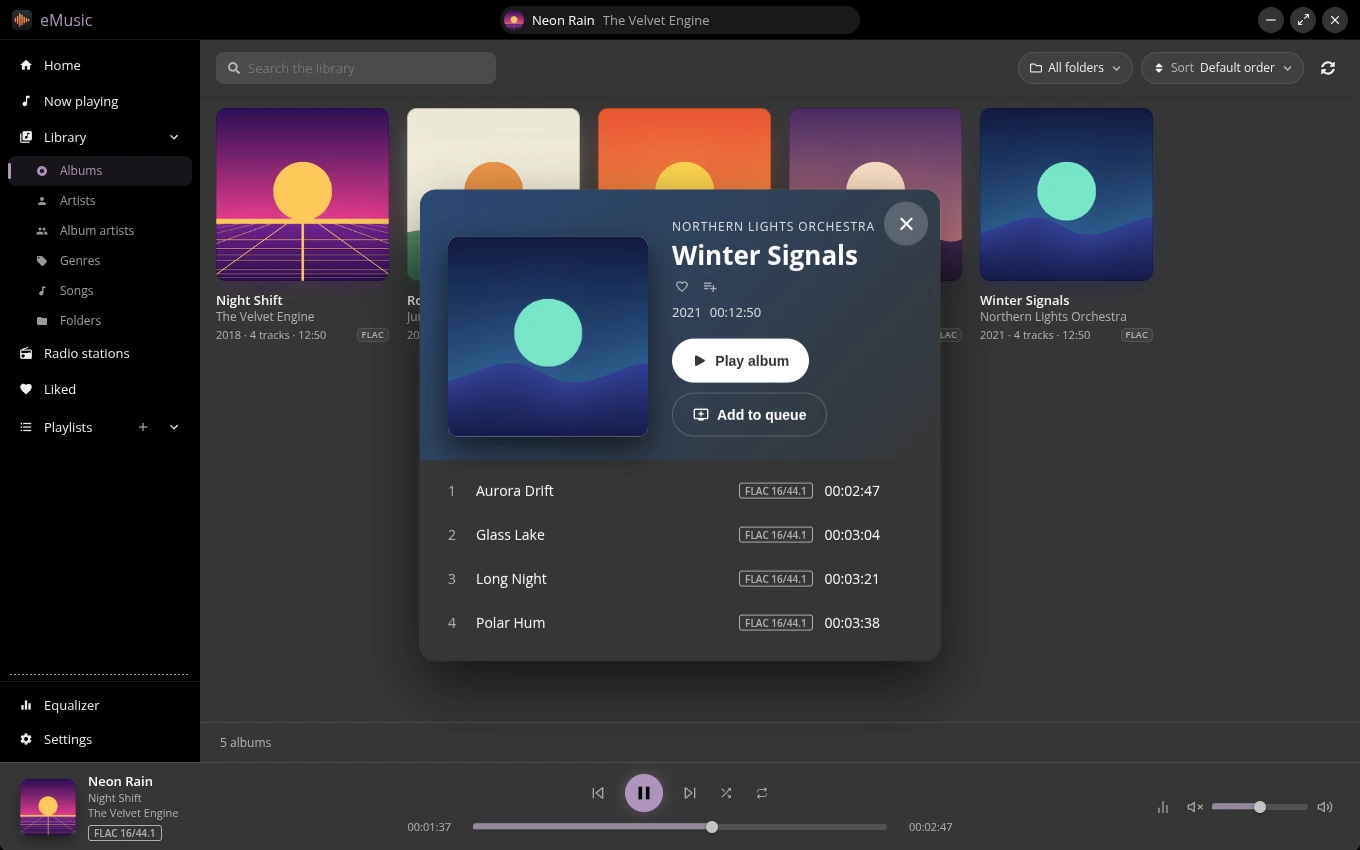
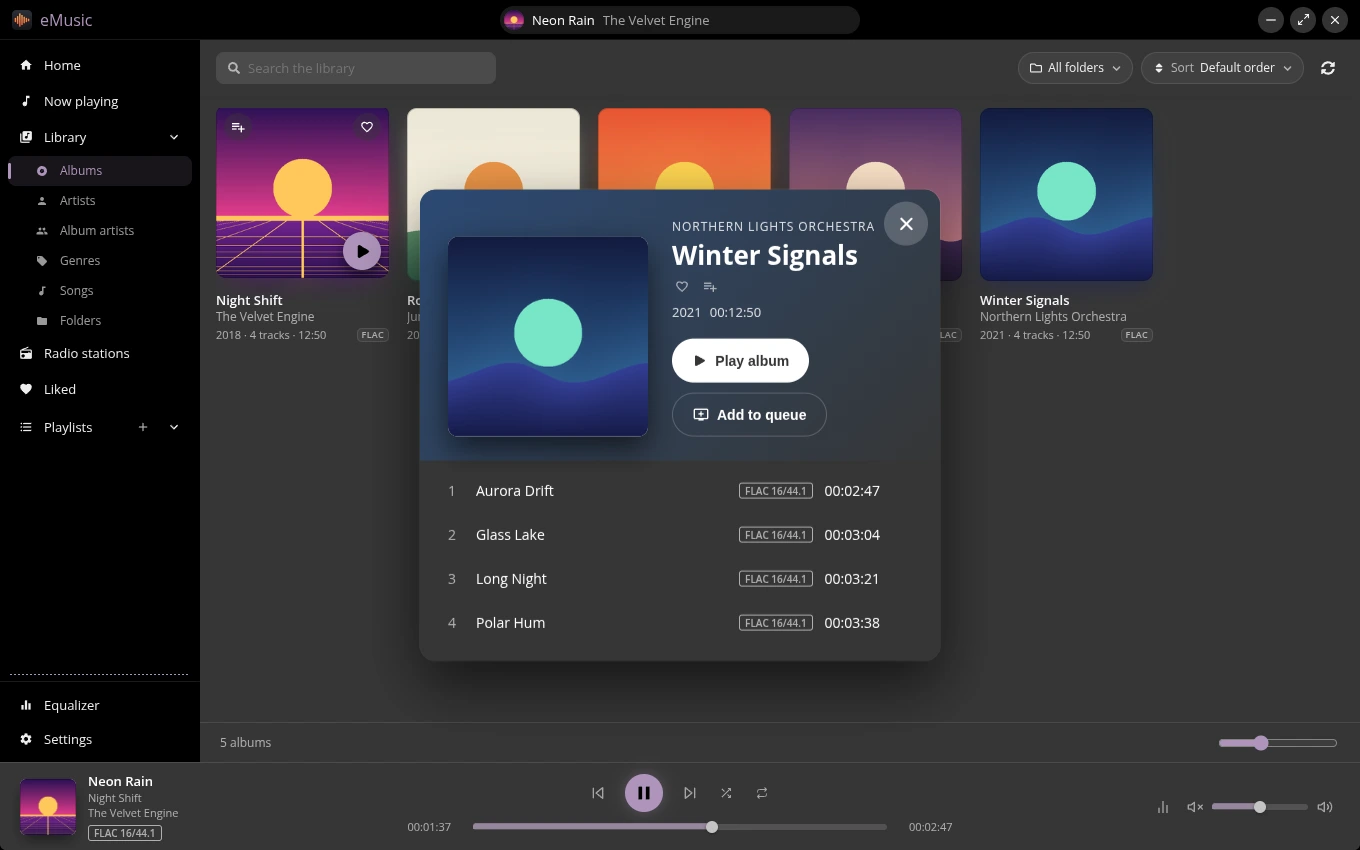
Add a slider for the size of the covers to the bar below the albums

diff --git a/components/album-view/AlbumView.tsx b/components/album-view/AlbumView.tsx
@@ -7,6 +7,7 @@ import { useTranslation } from '../../client/i18n';
 import { useScrollSeparator } from '../../client/hooks/use-scroll-separator';
 import { usePageLoader } from '../../client/hooks/use-page-loader';
 import { useWindowedList } from '../../client/hooks/use-windowed-list';
+import { coverSizes } from '../../client/cover-size';
 import { fetchAlbum } from '../../client/library-api';
 import { getCachedItem } from '../../client/redux/library/pages';
 import type { PageCache } from '../../client/redux/library/pages';
@@ -14,8 +15,7 @@ import style from './AlbumView.scss';
 import AlbumViewThumbnail from '../album-view-thumbnail';
 import { selectedFolders } from '../../client/library-query';
 
-/** The least width of a cover and the gap between two in px, the covers grow to fill the width; matching .row in AlbumView.scss */
-const minCoverWidth = 160;
+/** The gap between two covers in px, the covers grow to fill the width; matching .row in AlbumView.scss */
 const columnGap = 18;
 /** The space under a thumbnail and the height of its lines of text in px, matching .albumViewThumbnail in AlbumViewThumbnail.scss */
 const rowGap = 22;
@@ -34,17 +34,20 @@ interface AlbumViewProps {
   playTracks: (tracks: Track[]) => void;
   selectAlbum: (album: Album | null) => void;
   loadPage: (page: number) => void;
+  /** The least width of a cover in px, which the slider of the bar below the list sets */
+  coverSize: number;
+  setCoverSize: (size: number) => void;
   /** What the bar above the list holds, no bar when omitted (the sort of the albums is in the header of the library) */
   toolbar?: ReactNode;
 }
 
-const AlbumView = ({ playTracks, selectAlbum, albums, sort, selected, folders, search, loadPage, toolbar }: AlbumViewProps) => {
+const AlbumView = ({ playTracks, selectAlbum, albums, sort, selected, folders, search, coverSize, setCoverSize, loadPage, toolbar }: AlbumViewProps) => {
   const { t } = useTranslation();
   const { separator, listing: scrolled } = useScrollSeparator(style.scrolled);
   const { listing, columns, rowHeight, firstIndex, lastIndex, offsetTop, height } = useWindowedList({
     itemCount: albums.total ?? 0,
     rowHeight: rowHeightOf,
-    itemWidth: minCoverWidth,
+    itemWidth: coverSize,
     gap: columnGap,
   });
   usePageLoader(albums, firstIndex, lastIndex, loadPage);
@@ -98,7 +101,20 @@ const AlbumView = ({ playTracks, selectAlbum, albums, sort, selected, folders, s
           ))}
         </div>
       </div>
-      <div className={style.footer}>{t('albums.count', { count: albums.total ?? 0 })}</div>
+      <div className={style.footer}>
+        <span>{t('albums.count', { count: albums.total ?? 0 })}</span>
+        <input
+          type="range"
+          className={style.coverSize}
+          aria-label={t('albums.coverSize')}
+          title={t('albums.coverSize')}
+          min={coverSizes.min}
+          max={coverSizes.max}
+          step={coverSizes.step}
+          value={coverSize}
+          onChange={(event) => setCoverSize(Number(event.target.value))}
+        />
+      </div>
     </div>
   );
 };

diff --git a/client/redux/uiState/reducer.ts b/client/redux/uiState/reducer.ts
@@ -1,4 +1,5 @@
 import type { Reducer } from 'redux';
+import { coverSizes, restoreCoverSize } from '../../cover-size';
 import { knownFolders, parseFolders, restoreAlbumSort, restoreGroupSort, restoreTrackSort } from '../../../types/library-query';
 import { parseRadioQuery } from '../../../types/radio-query';
 import { isAppAction } from '../types';
@@ -37,6 +38,7 @@ const initialState: UiState = {
   theme: { ...defaultTheme, accent: autoAccent },
   trackSort: undefined,
   albumSort: undefined,
+  coverSize: coverSizes.default,
   groupSort: undefined,
   artistPhotos: true,
   openGroup: undefined,
@@ -64,6 +66,8 @@ const reducer: Reducer<UiState> = (state = initialState, action) => {
       return { ...state, trackSort: action.payload.sort };
     case 'SET_ALBUM_SORT':
       return { ...state, albumSort: action.payload.sort };
+    case 'SET_COVER_SIZE':
+      return { ...state, coverSize: restoreCoverSize(action.payload.size) };
     case 'SET_LIBRARY_SEARCH':
       return { ...state, librarySearch: action.payload.search };
     case 'SET_ARTIST_PHOTOS':
@@ -196,6 +200,7 @@ const reducer: Reducer<UiState> = (state = initialState, action) => {
         // a saved value that is not valid gives the default order and all folders
         ...('trackSort' in settings && { trackSort: restoreTrackSort(settings.trackSort) }),
         ...('albumSort' in settings && { albumSort: restoreAlbumSort(settings.albumSort) }),
+        ...('coverSize' in settings && { coverSize: restoreCoverSize(settings.coverSize) }),
         // only a saved off turns the photos off
         ...('artistPhotos' in settings && { artistPhotos: settings.artistPhotos !== false }),
         ...('groupSort' in settings && { groupSort: restoreGroupSort(settings.groupSort) }),

diff --git a/components/album-view/AlbumView.test.tsx b/components/album-view/AlbumView.test.tsx
@@ -1,5 +1,5 @@
 import { afterEach, describe, expect, it, vi } from 'vitest';
-import { cleanup, render, screen } from '@testing-library/react';
+import { cleanup, fireEvent, render, screen } from '@testing-library/react';
 import type { AlbumSummary } from '../../types/library';
 import { createPageCache, storePage } from '../../client/redux/library/pages';
 import AlbumView from './AlbumView';
@@ -22,6 +22,8 @@ const baseProps = {
   selected: [],
   folders: [],
   search: undefined,
+  coverSize: 160,
+  setCoverSize: vi.fn(),
   playTracks: vi.fn(),
   selectAlbum: vi.fn(),
   loadPage: vi.fn(),
@@ -50,5 +52,17 @@ describe('AlbumView', () => {
   it('says nothing while the first page is on its way, or with no search', () => {
     expect(render(<AlbumView {...baseProps} albums={createPageCache<AlbumSummary>()} search="halo" />).queryByText(nothing)).toBeNull();
     expect(render(<AlbumView {...baseProps} albums={empty} />).queryByText(nothing)).toBeNull();
+  });
+
+  it('sets the size of the covers from the slider of the bar below the list', () => {
+    const setCoverSize = vi.fn();
+    render(<AlbumView {...baseProps} setCoverSize={setCoverSize} coverSize={180} albums={empty} />);
+    const slider = screen.getByRole<HTMLInputElement>('slider', { name: 'Cover size' });
+
+    expect([slider.value, slider.min, slider.max, slider.step]).toEqual(['180', '120', '240', '10']);
+
+    fireEvent.change(slider, { target: { value: '220' } });
+
+    expect(setCoverSize).toHaveBeenCalledWith(220);
   });
 });

diff --git a/components/album-view-thumbnail/AlbumViewThumbnail.tsx b/components/album-view-thumbnail/AlbumViewThumbnail.tsx
@@ -24,9 +24,11 @@ const AlbumViewThumbnail = ({ album, offlineFolders, selectAlbum, playAlbum }: A
   const cover = album.cover ? { backgroundImage: `url("${getCoverUrl(album.cover)}")` } : undefined;
   const format = albumFormatLabel(album);
   // the year is missing on a track that has none
-  const details = [Number(album.year) > 0 && `${Number(album.year)}`, t('tracks.count', { count: album.trackCount }), formatLength(album.duration)].filter(
-    Boolean
-  );
+  const year = Number(album.year) > 0 ? `${Number(album.year)}` : undefined;
+  const length = formatLength(album.duration);
+  const facts = [year, t('tracks.count', { count: album.trackCount }), length].filter(Boolean).join(' · ');
+  // a narrow cover has no room for the number of tracks
+  const shortFacts = [year, length].filter(Boolean).join(' · ');
 
   return (
     <div
@@ -63,7 +65,8 @@ const AlbumViewThumbnail = ({ album, offlineFolders, selectAlbum, playAlbum }: A
         {album.artist}
       </div>
       <div className={style.details}>
-        <span className={style.facts}>{details.join(' · ')}</span>
+        <span className={style.facts}>{facts}</span>
+        <span className={style.shortFacts}>{shortFacts}</span>
         {format && <span className={style.format}>{format}</span>}
       </div>
     </div>

diff --git a/client/redux/uiState/reducer.test.ts b/client/redux/uiState/reducer.test.ts
@@ -371,6 +371,17 @@ describe('uiState reducer', () => {
       expect(run({ type: 'STORE_FOLDERS', payload: { folders: folders(['/a', '/b']) } }, selected)).toBe(selected);
     });
 
+    it('starts with the default size of the covers, sets it and keeps it in the range', () => {
+      expect(initial.coverSize).toBe(160);
+      expect(run({ type: 'SET_COVER_SIZE', payload: { size: 200 } }).coverSize).toBe(200);
+      expect(run({ type: 'SET_COVER_SIZE', payload: { size: 900 } }).coverSize).toBe(240);
+    });
+
+    it('restores a saved size of the covers, and the default for one that is not a number', () => {
+      expect(run({ type: 'RESTORE_SETTINGS', payload: { settings: { coverSize: 140 } } }).coverSize).toBe(140);
+      expect(run({ type: 'RESTORE_SETTINGS', payload: { settings: { coverSize: 'big' } as never } }, { ...initial, coverSize: 200 }).coverSize).toBe(160);
+    });
+
     it('restores a saved sort and selection', () => {
       const settings: Partial<PersistedSettings> = {
         trackSort: { field: 'artist', direction: 'desc' },

diff --git a/client/redux/types.ts b/client/redux/types.ts
@@ -56,6 +56,8 @@ export interface PersistedSettings {
   /** The sort of the tracks and of the albums, undefined is the default order */
   trackSort: TrackSort | undefined;
   albumSort: AlbumSort | undefined;
+  /** The least width of a cover of the album grid in px */
+  coverSize: number;
   /** The sort of the artists, the album artists and the genres */
   groupSort: GroupSort | undefined;
   /** Whether the photos of the artists are looked up at Deezer, which gets the names of the artists */
@@ -160,6 +162,7 @@ export type AppAction =
   | EmptyAction<'CLOSE_GROUP'>
   | PayloadAction<'SET_TRACK_SORT', { sort: TrackSort | undefined }>
   | PayloadAction<'SET_ALBUM_SORT', { sort: AlbumSort | undefined }>
+  | PayloadAction<'SET_COVER_SIZE', { size: number }>
   | PayloadAction<'SET_LIBRARY_FOLDERS', { folders: string[] }>
   | PayloadAction<'SET_LIBRARY_SEARCH', { search: string }>
   | PayloadAction<'STORE_ALBUM_PAGE', { page: number; items: AlbumSummary[]; total: number }>

diff --git a/client/redux/connection/middleware.test.ts b/client/redux/connection/middleware.test.ts
@@ -237,6 +237,7 @@ describe('connection middleware', () => {
       store.dispatch({ type: 'SET_TRACK_SORT', payload: { sort: { field: 'year', direction: 'desc' } } });
       store.dispatch({ type: 'SET_ALBUM_SORT', payload: { sort: { field: 'title', direction: 'asc' } } });
       store.dispatch({ type: 'SET_LIBRARY_FOLDERS', payload: { folders: ['/m'] } });
+      store.dispatch({ type: 'SET_COVER_SIZE', payload: { size: 200 } });
       store.dispatch({ type: 'SAVE_SETTINGS', payload: {} });
 
       expect(send).toHaveBeenLastCalledWith(
@@ -244,6 +245,7 @@ describe('connection middleware', () => {
         expect.objectContaining({
           trackSort: { field: 'year', direction: 'desc' },
           albumSort: { field: 'title', direction: 'asc' },
+          coverSize: 200,
           libraryFolders: ['/m'],
         })
       );

diff --git a/components/group-albums/index.ts b/components/group-albums/index.ts
@@ -10,6 +10,7 @@ import AlbumView from '../album-view/AlbumView';
 const mapState = (state: RootState) => ({
   albums: state.library.groupAlbums,
   sort: state.uiState.albumSort,
+  coverSize: state.uiState.coverSize,
   selected: state.uiState.libraryFolders,
   folders: state.folders,
   search: selectSearch(state),
@@ -18,6 +19,7 @@ const mapState = (state: RootState) => ({
 const mapDispatch = (dispatch: Dispatch<AppAction>) => ({
   selectAlbum: (album: Album | null) => dispatch({ type: 'SELECT_ALBUM', payload: { album } }),
   playTracks: (tracks: Track[]) => dispatch({ type: 'PLAY_TRACKS', payload: { tracks } }),
+  setCoverSize: (size: number) => dispatch({ type: 'SET_COVER_SIZE', payload: { size } }),
   loadPage: (page: number) => dispatch({ type: 'LOAD_LIBRARY_PAGE', payload: { kind: 'groupAlbums', page } }),
 });
 

diff --git a/components/album-view/index.ts b/components/album-view/index.ts
@@ -9,6 +9,7 @@ import AlbumView from './AlbumView';
 const mapState = (state: RootState) => ({
   albums: state.library.albums,
   sort: state.uiState.albumSort,
+  coverSize: state.uiState.coverSize,
   selected: state.uiState.libraryFolders,
   folders: state.folders,
   search: selectSearch(state),
@@ -17,6 +18,7 @@ const mapState = (state: RootState) => ({
 const mapDispatch = (dispatch: Dispatch<AppAction>) => ({
   selectAlbum: (album: Album | null) => dispatch({ type: 'SELECT_ALBUM', payload: { album } }),
   playTracks: (tracks: Track[]) => dispatch({ type: 'PLAY_TRACKS', payload: { tracks } }),
+  setCoverSize: (size: number) => dispatch({ type: 'SET_COVER_SIZE', payload: { size } }),
   loadPage: (page: number) => dispatch({ type: 'LOAD_LIBRARY_PAGE', payload: { kind: 'albums', page } }),
 });
 

diff --git a/client/cover-size.test.ts b/client/cover-size.test.ts
@@ -1,0 +1,20 @@
+import { describe, expect, it } from 'vitest';
+import { coverSizes, restoreCoverSize } from './cover-size';
+
+describe('restoreCoverSize', () => {
+  it('keeps a size of the range', () => {
+    expect(restoreCoverSize(120)).toBe(120);
+    expect(restoreCoverSize(200)).toBe(200);
+    expect(restoreCoverSize(240)).toBe(240);
+  });
+
+  it('keeps a size inside the range and on a step', () => {
+    expect(restoreCoverSize(10)).toBe(coverSizes.min);
+    expect(restoreCoverSize(5000)).toBe(coverSizes.max);
+    expect(restoreCoverSize(163)).toBe(160);
+  });
+
+  it.each([['wide'], [undefined], [null], [Number.NaN], [Infinity], [{}]])('gives the default for %s', (value) => {
+    expect(restoreCoverSize(value)).toBe(coverSizes.default);
+  });
+});

diff --git a/components/album-view-thumbnail/AlbumViewThumbnail.scss b/components/album-view-thumbnail/AlbumViewThumbnail.scss
@@ -1,5 +1,6 @@
 .albumViewThumbnail {
   position: relative;
+  container-type: inline-size;
   min-width: 0;
   cursor: pointer;
   user-select: none;
@@ -159,6 +160,25 @@
     min-width: 0;
     overflow: hidden;
     text-overflow: ellipsis;
+  }
+
+  .shortFacts {
+    display: none;
+    flex: 0 1 auto;
+    min-width: 0;
+    overflow: hidden;
+    text-overflow: ellipsis;
+  }
+
+  // under this width the line has the year and the length only, and the badge keeps its place
+  @container (max-width: 149px) {
+    .facts {
+      display: none;
+    }
+
+    .shortFacts {
+      display: block;
+    }
   }
 
   .format {

diff --git a/client/cover-size.ts b/client/cover-size.ts
@@ -1,0 +1,8 @@
+/** The least width of a cover of the album grid in px, which the covers grow from to fill the width: what the slider in the bar of the grid picks */
+export const coverSizes = { min: 120, max: 240, step: 10, default: 160 } as const;
+
+/** A saved size that is a number is kept inside the range and on a step, any other value is the default */
+export const restoreCoverSize = (value: unknown) =>
+  typeof value === 'number' && Number.isFinite(value)
+    ? Math.min(Math.max(Math.round(value / coverSizes.step) * coverSizes.step, coverSizes.min), coverSizes.max)
+    : coverSizes.default;
